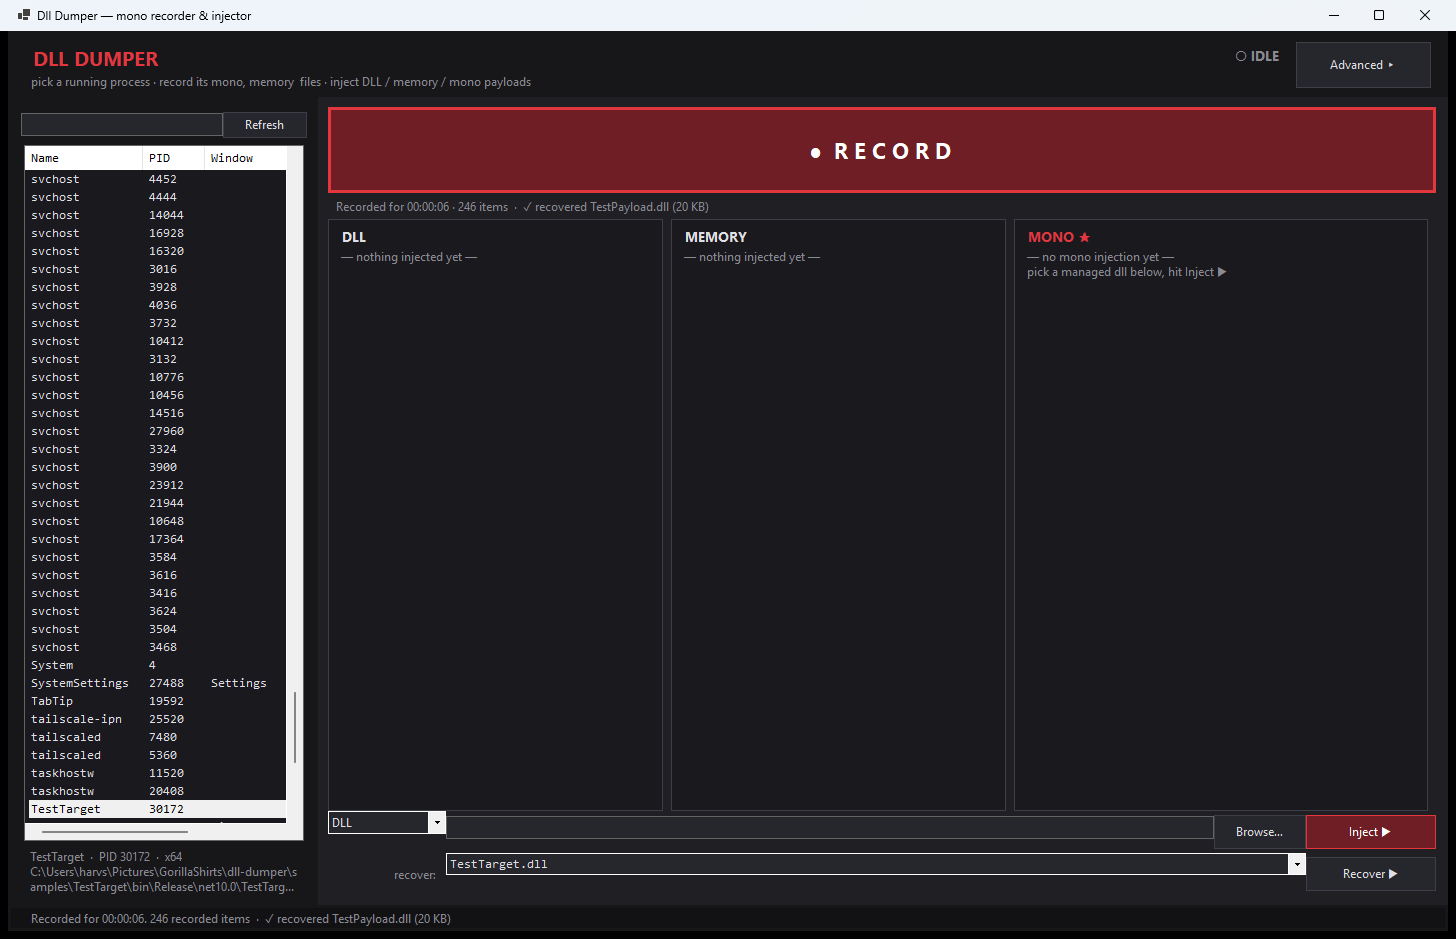
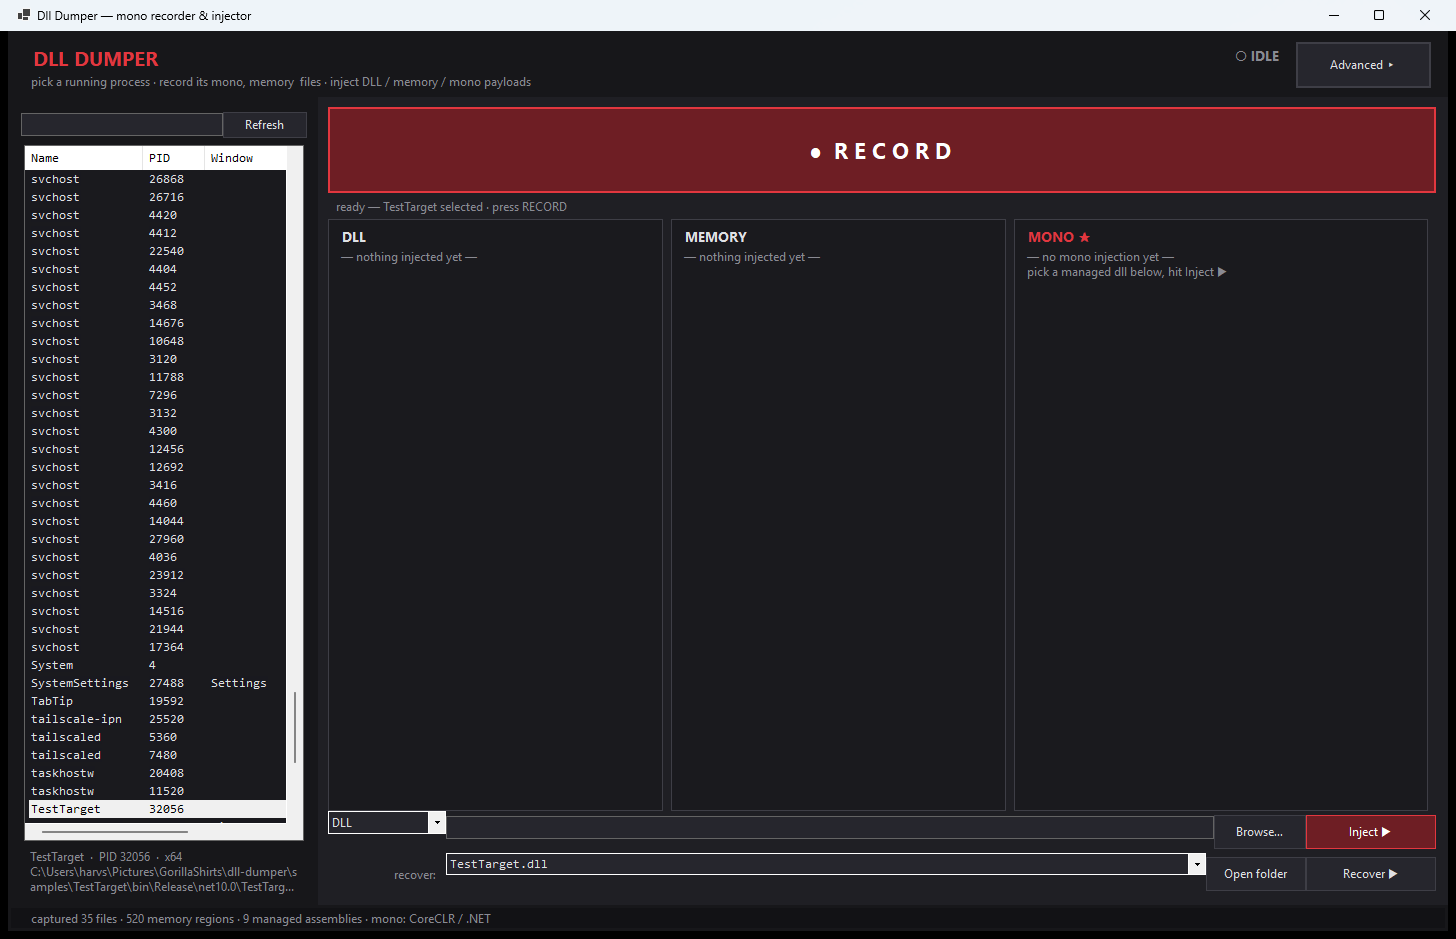
one neat session folder per recording — logs, data and recovered dlls together
- Stop now writes sessions\<timestamp>_<target>\ containing report.txt
  (full log + injections + recover verdicts), mono.txt, memory.txt, files.txt
  and recovered\*.dll — zip it and send it as-is
- new Open folder button next to Recover jumps to the last session
- guided hint text spells out the flow: select -> record -> inject -> stop

diff --git a/src/DllDumper/MainForm.cs b/src/DllDumper/MainForm.cs
@@ -49,7 +49,8 @@ public sealed class MainForm : Form
     private Label _cardDllRec = null!, _cardMemRec = null!, _cardMonoRec = null!;
     private ComboBox _simpleModeBox = null!, _recoverBox = null!;
     private TextBox _simplePayloadBox = null!;
-    private Button _simpleBrowseBtn = null!, _simpleInjectBtn = null!, _recoverBtn = null!;
+    private Button _simpleBrowseBtn = null!, _simpleInjectBtn = null!, _recoverBtn = null!, _openFolderBtn = null!;
+    private string? _lastSessionDir;   // most recent exported session folder
 
     // advanced view -------------------------------------------------------------
     private ComboBox _modeBox = null!;
@@ -312,6 +313,7 @@ public sealed class MainForm : Form
         _injectBtn.Click += async (_, _) => await InjectAsync();
         _simpleInjectBtn.Click += async (_, _) => await InjectAsync();
         _recoverBtn.Click += async (_, _) => await RecoverModuleAsync();
+        _openFolderBtn.Click += (_, _) => OpenSessionFolder();
         void OpenInjected() { ShowView(false); SelectTabByName("Injected"); }
         _cardDllTitle.Click += (_, _) => OpenInjected(); _cardDllBody.Click += (_, _) => OpenInjected();
         _cardMemTitle.Click += (_, _) => OpenInjected(); _cardMemBody.Click += (_, _) => OpenInjected();
@@ -344,6 +346,7 @@ public sealed class MainForm : Form
         _tip.SetToolTip(_simpleInjectBtn, "Inject the payload into the selected process (drag & drop a file onto this window to set it)");
         _tip.SetToolTip(_recoverBtn, "Read the module straight out of the target's memory and save it to disk");
         _tip.SetToolTip(_recoverBox, "Modules loaded in the target — a dll you just injected shows up here");
+        _tip.SetToolTip(_openFolderBtn, "Open the last session folder — logs, mono/memory/files data and recovered dlls, ready to send");
         _tip.SetToolTip(_advToggleBtn, "Switch between this simple view and the advanced tabs");
         _tip.SetToolTip(_cardMonoBody, "mono injection results — click to open the Injected tab");
 
@@ -487,7 +490,7 @@ public sealed class MainForm : Form
             TextAlign = ContentAlignment.MiddleLeft,
             AutoEllipsis = true,
             Padding = new Padding(2, 0, 0, 0),
-            Text = "pick a process on the left, then hit RECORD",
+            Text = "1 select a process on the left  ·  2 click RECORD  ·  3 inject (yours or ours)  ·  4 click STOP — logs, data and recovered dlls land in one folder",
         };
 
         // --- "has anything been injected?" cards ---
@@ -560,13 +563,16 @@ public sealed class MainForm : Form
             Margin = Padding.Empty,
         };
         _recoverBtn = MakeButton("Recover ▶");
+        _openFolderBtn = MakeButton("Open folder");
         var recoverRow = RowPanel(
             new ColumnStyle(SizeType.Absolute, 118),
             new ColumnStyle(SizeType.Percent, 100),
+            new ColumnStyle(SizeType.Absolute, 100),
             new ColumnStyle(SizeType.Absolute, 130));
         recoverRow.Controls.Add(recoverLabel, 0, 0);
         recoverRow.Controls.Add(_recoverBox, 1, 0);
-        recoverRow.Controls.Add(_recoverBtn, 2, 0);
+        recoverRow.Controls.Add(_openFolderBtn, 2, 0);
+        recoverRow.Controls.Add(_recoverBtn, 3, 0);
 
         var p = new TableLayoutPanel
         {
@@ -797,14 +803,14 @@ public sealed class MainForm : Form
     // session (injected by this app OR by any external tool) is dumped back
     // out and the result is reported on the cards and in the status line
     // =========================================================================
-    private async Task<List<string>> RecoverSessionAsync()
+    private async Task<List<string>> RecoverSessionAsync(string dir)
     {
         var done = new List<string>();
         if (_proc is null) return done;
 
         var proc = _proc;
         int version = _version;
-        string dir = PickRecoveryDir();
+        Directory.CreateDirectory(dir);
 
         List<ModuleInfo>? baseline = null;
         if (_baselineTask is not null)
@@ -900,24 +906,6 @@ public sealed class MainForm : Form
         };
         lbl.Text = text;
         lbl.ForeColor = ok ? COk : Color.FromArgb(235, 95, 100);
-    }
-
-    private static string PickRecoveryDir()
-    {
-        string next = Path.Combine(AppContext.BaseDirectory, "recovered");
-        try
-        {
-            Directory.CreateDirectory(next);
-            return next;
-        }
-        catch
-        {
-            // e.g. installed under Program Files — fall back to the desktop
-            string desk = Path.Combine(
-                Environment.GetFolderPath(Environment.SpecialFolder.Desktop), "dll-dumper");
-            Directory.CreateDirectory(desk);
-            return desk;
-        }
     }
 
     private static string UniquePath(string path)
@@ -1737,6 +1725,8 @@ public sealed class MainForm : Form
     private async Task StopAsync()
     {
         if (!_rec.IsRecording) return;
+        var proc = _proc;
+        if (proc is null) return;
         SetStatus("finishing final capture…");
         await RunCaptureAsync();
 
@@ -1747,15 +1737,41 @@ public sealed class MainForm : Form
             $"({types:N0} types / {methods:N0} methods) · {_rec.Injections.Count} injections · " +
             $"{_rec.Items.Count:N0} log entries";
 
+        var startedAt = _rec.StartedAt;
+        var stoppedAt = DateTime.Now;
         _tickTimer.Stop();
         string msg = _rec.StopSession(summary);
         UpdateButtons();
         UpdateRecordUi();
 
-        // the whole point: diff the image map against the record-time baseline,
-        // dump whatever dll appeared during the session (our inject or an
-        // external one) and report whether it could be recovered
-        var recovered = await RecoverSessionAsync();
+        // one neat, send-able folder per session: recovered dlls + logs + all data
+        string folder = "";
+        var recovered = new List<string>();
+        try
+        {
+            folder = SessionExporter.CreateSessionFolder(proc.Name);
+
+            // diff the image map against the record-time baseline, dump whatever
+            // dll appeared (our inject or an external one) into the session folder
+            recovered = await RecoverSessionAsync(Path.Combine(folder, "recovered"));
+
+            var snapModules = _modules;
+            var snapRegions = _regions;
+            var snapAsm = _assemblies;
+            var snapRuntime = _runtime;
+            var snapRec = _rec;
+            var snapProc = proc;
+            string f = folder;
+            await Task.Run(() => SessionExporter.Write(
+                f, snapProc.Name, snapProc.Pid, snapProc.Is64Bit,
+                startedAt, stoppedAt, summary,
+                snapRec, snapRuntime, snapAsm, snapRegions, snapModules, recovered));
+            _lastSessionDir = folder;
+        }
+        catch (Exception ex)
+        {
+            _rec.RecordError("export", ex.Message);
+        }
 
         bool anyFail = recovered.Any(r => r.StartsWith("✗"));
         var shown = recovered.Count > 4 ? recovered.Take(4).ToList() : recovered;
@@ -1763,10 +1779,31 @@ public sealed class MainForm : Form
             ? "  ·  " + string.Join("  ·  ", shown) +
               (recovered.Count > 4 ? $"  ·  +{recovered.Count - 4} more" : "")
             : "";
-        SetSimpleStatus($"{msg} · {_rec.Items.Count:N0} items{tail}", !anyFail);
-        SetStatus($"{msg}. {_rec.Items.Count:N0} recorded items{tail}" +
-                  (recovered.Count > 0 ? "" : " — see the Recorded tab (Save report exports it)."),
-                  anyFail);
+        string where = folder != "" ? $"  ·  session → {RelToExe(folder)}" : "";
+        SetSimpleStatus($"{msg} · {_rec.Items.Count:N0} items{tail}{where}", !anyFail);
+        SetStatus($"{msg}. {_rec.Items.Count:N0} recorded items{tail}{where}", anyFail);
+    }
+
+    private static string RelToExe(string folder)
+    {
+        try { return Path.GetRelativePath(AppContext.BaseDirectory, folder); }
+        catch { return folder; }
+    }
+
+    private void OpenSessionFolder()
+    {
+        try
+        {
+            Directory.CreateDirectory(SessionExporter.Root);
+            string dir = _lastSessionDir is not null && Directory.Exists(_lastSessionDir)
+                ? _lastSessionDir
+                : SessionExporter.Root;
+            Process.Start(new ProcessStartInfo("explorer.exe", dir) { UseShellExecute = true });
+        }
+        catch (Exception ex)
+        {
+            SetSimpleStatus($"could not open the folder: {ex.Message}", false);
+        }
     }
 
     private void StopRecordingInternal(string reason)
@@ -1774,9 +1811,40 @@ public sealed class MainForm : Form
         if (!_rec.IsRecording) return;
         _tickTimer.Stop();
         _baselineTask = null;
-        _rec.StopSession($"{reason} · {_rec.Items.Count:N0} entries · {_rec.Injections.Count} injections");
+        var startedAt = _rec.StartedAt;
+        var stoppedAt = DateTime.Now;
+        string summary = $"{reason} · {_rec.Items.Count:N0} entries · {_rec.Injections.Count} injections";
+        _rec.StopSession(summary);
         UpdateButtons();
         UpdateRecordUi();
+
+        // switched process mid-recording — still save what was captured
+        if (_proc is null) return;
+        try
+        {
+            string folder = SessionExporter.CreateSessionFolder(_proc.Name);
+            _lastSessionDir = folder;
+            var snapModules = _modules;
+            var snapRegions = _regions;
+            var snapAsm = _assemblies;
+            var snapRuntime = _runtime;
+            var snapRec = _rec;
+            var snapProc = _proc;
+            string f = folder;
+            _ = Task.Run(() =>
+            {
+                try
+                {
+                    SessionExporter.Write(
+                        f, snapProc.Name, snapProc.Pid, snapProc.Is64Bit,
+                        startedAt, stoppedAt, summary,
+                        snapRec, snapRuntime, snapAsm, snapRegions, snapModules,
+                        Array.Empty<string>());
+                }
+                catch { /* never crash the UI over a background export */ }
+            });
+        }
+        catch { /* folder creation failed — nothing to do */ }
     }
 
     private void OnRecordAdded(RecordItem item)

diff --git a/src/DllDumper/Core/SessionExporter.cs b/src/DllDumper/Core/SessionExporter.cs
@@ -1,0 +1,127 @@
+using System.Text;
+
+namespace DllDumper.Core;
+
+/// <summary>
+/// Writes one neat, send-able folder per recording session:
+/// report.txt (log + injections + recover verdicts), mono.txt, memory.txt,
+/// files.txt — plus the recovered\ subfolder the dumper writes recovered dlls into.
+/// The whole folder can be zipped and sent to someone as-is.
+/// </summary>
+public static class SessionExporter
+{
+    /// <summary>Root folder next to the exe where sessions are created.</summary>
+    public static string Root => Path.Combine(AppContext.BaseDirectory, "sessions");
+
+    /// <summary>Creates a fresh timestamped session folder, e.g. sessions\2026-10-20_145502_GorillaTag.</summary>
+    public static string CreateSessionFolder(string targetName)
+    {
+        string safe = new(targetName.Where(c => char.IsLetterOrDigit(c) || c is '-' or '_' or '.').ToArray());
+        if (safe.Length == 0) safe = "target";
+        string dir = Path.Combine(Root, $"{DateTime.Now:yyyyMMdd_HHmmss}_{safe}");
+        Directory.CreateDirectory(dir);
+        return dir;
+    }
+
+    /// <summary>Writes the captured data + log into an existing session folder.</summary>
+    public static void Write(
+        string folder,
+        string targetName,
+        int pid,
+        bool is64Bit,
+        DateTime startedAt,
+        DateTime stoppedAt,
+        string summary,
+        Recorder rec,
+        MonoRuntime? runtime,
+        List<AssemblyScan> assemblies,
+        List<MemoryRegion> regions,
+        List<ModuleInfo> modules,
+        IReadOnlyList<string> recoverNotes)
+    {
+        // --- report.txt: the story of the session ---------------------------
+        var sb = new StringBuilder();
+        sb.AppendLine("dll dumper — session report");
+        sb.AppendLine("===========================");
+        sb.AppendLine($"target    : {targetName} (PID {pid}) · {(is64Bit ? "x64" : "x86")}");
+        sb.AppendLine($"recorded  : {startedAt:yyyy-MM-dd HH:mm:ss} → {stoppedAt:HH:mm:ss} " +
+                      $"({(stoppedAt - startedAt).ToString(@"hh\:mm\:ss")})");
+        sb.AppendLine($"summary   : {summary}");
+        sb.AppendLine($"generated : {DateTime.Now:yyyy-MM-dd HH:mm:ss}");
+        sb.AppendLine();
+
+        sb.AppendLine("recovered dlls");
+        sb.AppendLine("--------------");
+        if (recoverNotes.Count == 0)
+            sb.AppendLine("(no new dlls appeared in the target during the session)");
+        else
+            foreach (var n in recoverNotes)
+                sb.AppendLine(n);
+        sb.AppendLine();
+
+        sb.AppendLine("injections (through this app)");
+        sb.AppendLine("-----------------------------");
+        if (rec.Injections.Count == 0)
+            sb.AppendLine("(none — if you used an external injector, its dll shows up under recovered dlls)");
+        else
+            foreach (var inj in rec.Injections)
+            {
+                sb.AppendLine($"[{inj.Time:HH:mm:ss}] {inj.Mode} · {inj.Payload} → {inj.Target} · {inj.Status}");
+                foreach (var s in inj.Steps)
+                    sb.AppendLine("    " + s);
+            }
+        sb.AppendLine();
+
+        sb.AppendLine("session log");
+        sb.AppendLine("-----------");
+        foreach (var it in rec.Items)
+            sb.AppendLine($"[{it.Time:HH:mm:ss.fff}] {it.Kind,-12} {it.Item}  {it.Detail}".TrimEnd());
+        File.WriteAllText(Path.Combine(folder, "report.txt"), sb.ToString());
+
+        // --- mono.txt: runtime + exports + every managed assembly ------------
+        var mo = new StringBuilder();
+        mo.AppendLine("mono / runtime");
+        mo.AppendLine("==============");
+        if (runtime is null)
+        {
+            mo.AppendLine("no managed runtime detected in the target");
+        }
+        else
+        {
+            mo.AppendLine($"runtime : {runtime.KindName}");
+            mo.AppendLine($"module  : {runtime.ModuleName} @ 0x{runtime.ModuleBase.ToInt64():X}");
+            mo.AppendLine($"path    : {runtime.ModulePath}");
+            mo.AppendLine($"exports : {runtime.Exports.Count}");
+            if (runtime.Exports.Count > 0)
+            {
+                mo.AppendLine();
+                foreach (var e in runtime.Exports)
+                    mo.AppendLine($"  {e.AddressHex}  {e.Name}{(e.Forwarded ? "  (forwarded)" : "")}");
+            }
+        }
+        mo.AppendLine();
+        mo.AppendLine($"assemblies ({assemblies.Count})");
+        mo.AppendLine("----------");
+        foreach (var a in assemblies)
+            mo.AppendLine($"  {a.Name,-44} {a.TypeCount,6} types {a.MethodCount,7} methods  {a.Path}");
+        File.WriteAllText(Path.Combine(folder, "mono.txt"), mo.ToString());
+
+        // --- memory.txt: full region walk ------------------------------------
+        var mem = new StringBuilder();
+        mem.AppendLine($"memory map — {regions.Count} regions");
+        mem.AppendLine("===============");
+        mem.AppendLine($"{"base",-18} {"size",10}  {"state",-8} {"protect",-10} {"type",-8} owner");
+        foreach (var r in regions)
+            mem.AppendLine($"{r.BaseHex,-18} {r.SizeText,10}  {r.StateText,-8} {r.ProtectText,-10} {r.TypeText,-8} {r.Owner}");
+        File.WriteAllText(Path.Combine(folder, "memory.txt"), mem.ToString());
+
+        // --- files.txt: every mapped module ----------------------------------
+        var fl = new StringBuilder();
+        fl.AppendLine($"loaded files — {modules.Count} modules");
+        fl.AppendLine("===================");
+        foreach (var m in modules)
+            fl.AppendLine($"{m.Name,-44} {m.BaseHex,-18} {MemoryRegion.FormatSize(m.Size),9}" +
+                          $"{(m.IsManaged ? "  managed" : "")}  {m.Path}");
+        File.WriteAllText(Path.Combine(folder, "files.txt"), fl.ToString());
+    }
+}

diff --git a/README.md b/README.md
@@ -50,7 +50,7 @@ mapped files, the recorded session log and the injection ledger.
 | **loaded files** | every module in the target with base address and on-disk size |
 | **recorder** | click **● Record** and everything above streams into a timestamped log; **Save report** exports it |
 | **3 injectors** | `.dll` loader, memory/shellcode, and Mono runtime invoke — each with a step-by-step log |
-| **recover on stop** | stopping a recording diffs the target's image map and auto-dumps every new dll (yours *or* any external injector's) to `recovered\` |
+| **one session folder per recording** | Stop writes a neat timestamped folder — `report.txt` (log + injections + recover verdicts), `mono.txt`, `memory.txt`, `files.txt` and the `recovered\` dlls — zip it and send it as-is |
 | **recover a dll** | dump any loaded module (patched, unpacked, or injected) straight out of the target's memory to disk |
 | **injection ledger** | every injection is listed with mode, payload, and result (Success / Fail + why) |
 | **single file** | self-contained x64 exe, zero dependencies, .NET 10 |
@@ -85,8 +85,8 @@ module handle — so when something fails you know exactly where.
 When you hit **■ STOP**, the target's mapped-image map is diffed against the snapshot taken at
 record start. Every image that appeared during the session — whether it landed through this
 app's injectors or **through your own injector, which the app never sees** — is read out of
-memory and written to a `recovered\` folder next to the exe (or your desktop if the install
-folder isn't writable). The status line reports each one: `✓ recovered MyMod.dll (96 KB)` or
+memory and written to the session's `recovered\` subfolder, alongside the exported logs and
+data. The status line reports each one: `✓ recovered MyMod.dll (96 KB)` or
 `✗ could not recover …` with the reason. Mono-mapped assemblies are found through the memory
 map even when they never appear in the native module list.
 
@@ -114,7 +114,11 @@ DllDumper.exe TestTarget Recorded
 1. pick the target in the left list
 2. hit the big **● RECORD**, let it run
 3. inject — this app (**Inject ▶**, mono mode auto-picks the entry point) or your own injector
-4. hit **■ STOP** — the status line reports whether the dll was recovered to `recovered\`
+4. hit **■ STOP** — the status line reports whether the dll was recovered, and everything lands
+   in one neat folder: `sessions\2026-10-20_152016_YourGame\` containing `report.txt` (full log,
+   injections, recover verdicts), `mono.txt`, `memory.txt`, `files.txt` and `recovered\*.dll`.
+   Zip that folder and send it to whoever is helping you — **Open folder** (next to Recover)
+   jumps straight to it
 5. **Advanced ▸** holds the full detail: **Mono / Memory / Files / Recorded / Injected** tabs
 
 ### samples
